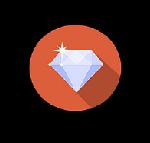
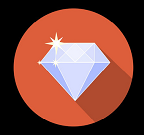
better images

diff --git a/index.html b/index.html
@@ -31,7 +31,7 @@
         <li class="hex">
             <div class="hexIn">
                 <a class="hexLink" href="https://monmaramba.github.io/TriViaGame/" target="_blank">
-                    <img src="assets/images/TriViaGame.png" alt="nelson muntz" />
+                    <img src="assets/images/TriViaGame.jpg" alt="nelson muntz" />
                     <h1>TriViaGame Homework</h1>
                     <p>Javascript/Jquery application. It's all about The Simpsons.</p>
                 </a>
@@ -60,7 +60,7 @@
         <li class="hex">
             <div class="hexIn">
                 <a class="hexLink" href="https://monmaramba.github.io/unit-4-game/" target="_blank">
-                    <img src="assets/images/crystal1.png" alt="crystal" />
+                    <img src="assets/images/crystal1.jpg" alt="crystal" />
                     <h1>The Crystals Collector</h1>
                     <p>A game app that uses Javascript, Bootstrap, array push, onClick events and random math</p>
                 </a>
@@ -88,7 +88,7 @@
         <li class="hex">
             <div class="hexIn">
                 <a class="hexLink" href="https://github.com/MonMaramba" target="_blank">
-                    <img src="assets/images/octocat.png" alt="git hub octocat" />
+                    <img src="assets/images/octocat.jpg" alt="git hub octocat" />
                     <h1>Git Hub Profile</h1>
                     <p>My git hub repository</p>
                 </a>

diff --git a/assets/style.css b/assets/style.css
@@ -89,7 +89,7 @@ h4 {
     width: 100%;
     height: 100%;
     text-align: center;
-    box-shadow: 5px 10px #888888;
+    box-shadow: 5px 10px 15px #888888;
     color: rgb(255, 255, 255);
     overflow: hidden;
     -webkit-transform: skewY(-30deg) rotate3d(0,0,1,60deg);
